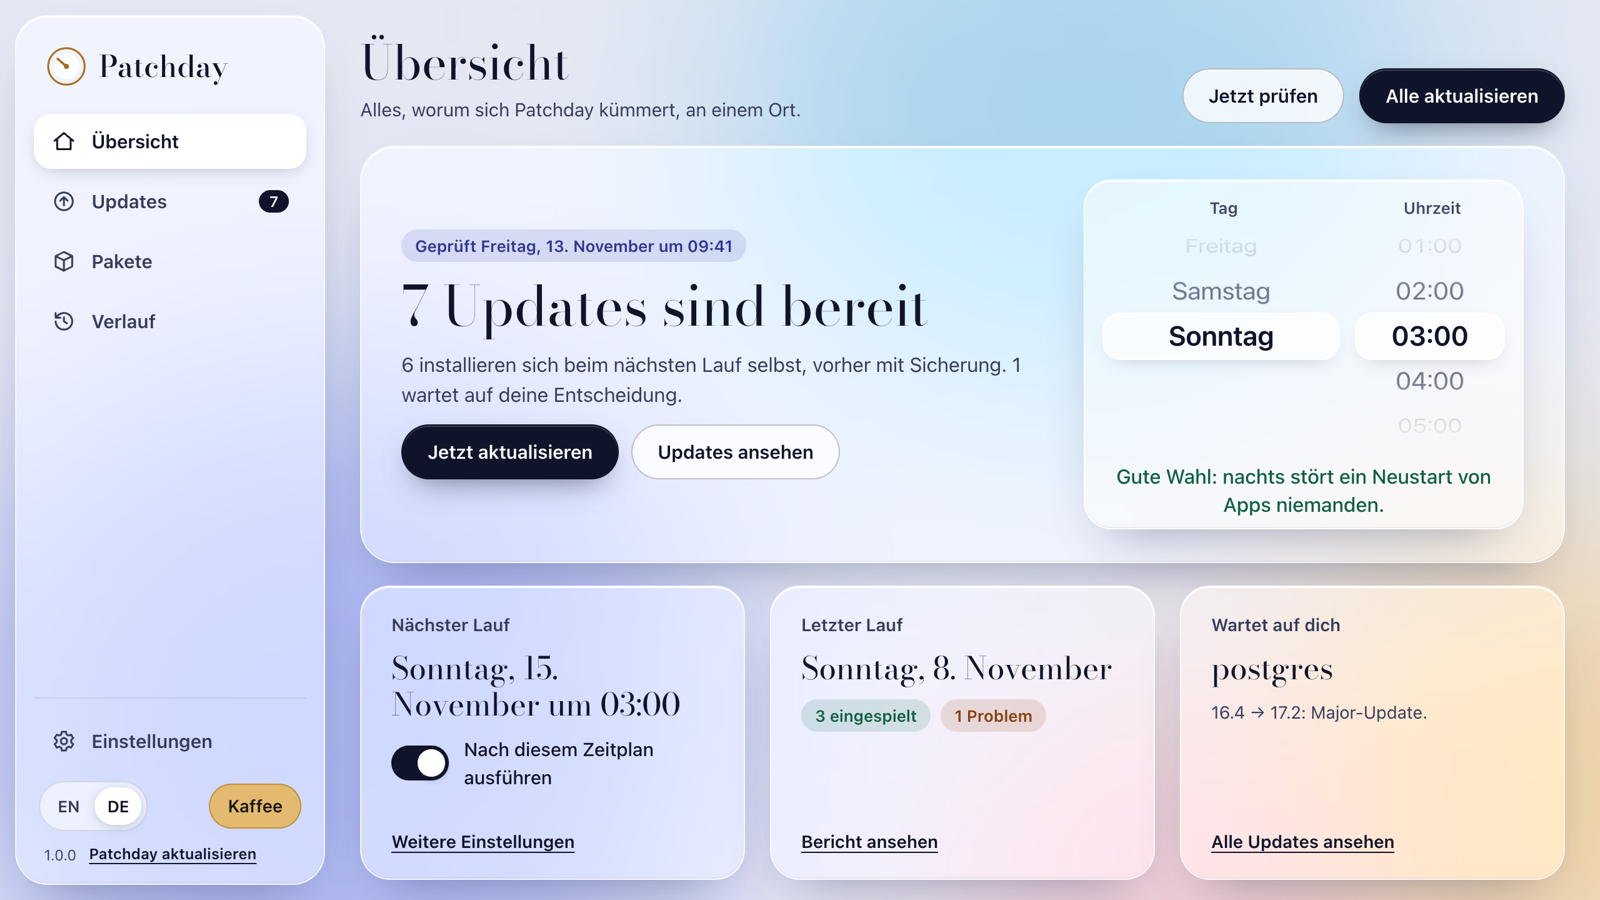
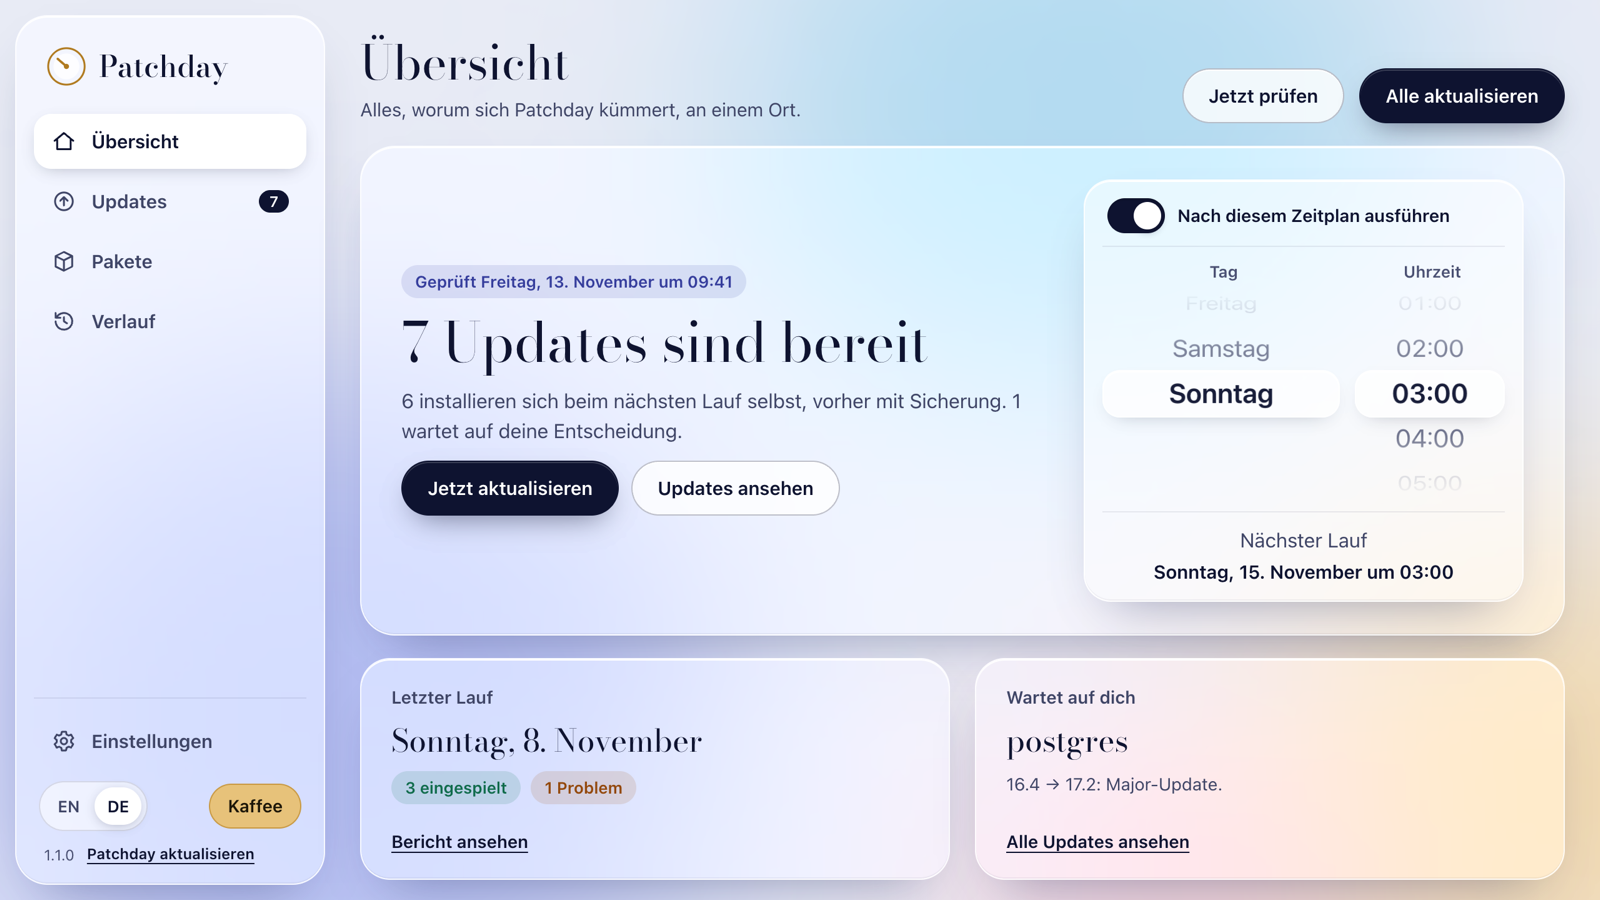
Overview: schedule switch, wheels and next run in one box

diff --git a/src/renderer/i18n.ts b/src/renderer/i18n.ts
@@ -6,8 +6,7 @@ export const STRINGS = {
     scheduleTitle: 'When should updates run?', pick: 'Pick a time: drag the hand or use the slider',
     enabled: 'Run on this schedule', check: 'Check now', update: 'Update now', settings: 'Settings',
     next: 'Next run:', off: 'The schedule is off. Nothing runs by itself.',
-    noteNight: 'Good choice: at night, nobody notices apps restarting.',
-    noteDay: 'During the day, updates can restart running apps and Docker. Night is safer.',
+    noteDay: 'Apps can restart while you use them.',
     applyLabel: 'Install updates on schedule',
     applyHint: 'While this is off, scheduled runs only report what would change.',
     minorLabel: 'Install minor updates automatically', holdsLabel: 'Never update (names, separated by commas)',
@@ -41,7 +40,7 @@ export const STRINGS = {
     autoSelfLabel: 'Update Patchday automatically', autoSelfHint: 'Patchday checks once a day, downloads new versions in the background and installs them when you close it.',
     selfReady: 'Patchday {version} is downloaded. It installs when you close Patchday.', selfRestart: 'Restart now',
     actionFailed: 'Could not finish:', moreActions: 'More actions for {name}', busyNote: 'Wait until the current run or action has finished.',
-    settingsLead: 'Everything that is not on Overview. Changes save by themselves.', moreSettings: 'More settings',
+    settingsLead: 'Everything that is not on Overview. Changes save by themselves.',
     appearance: 'Appearance', appearanceSystem: 'System', appearanceLight: 'Light', appearanceDark: 'Dark', appearanceHint: 'System follows the light or dark setting of your computer.',
     exportLogs: 'Export logs', logsExported: 'Logs saved. They list every run with the reason and the tool\'s output for each failed update.',
     stepsLabel: '{name}: {phase}',
@@ -71,8 +70,7 @@ export const STRINGS = {
     scheduleTitle: 'Wann sollen Updates laufen?', pick: 'Zeitpunkt wählen: Zeiger ziehen oder Regler nutzen',
     enabled: 'Nach diesem Zeitplan ausführen', check: 'Jetzt prüfen', update: 'Jetzt aktualisieren', settings: 'Einstellungen',
     next: 'Nächster Lauf:', off: 'Der Zeitplan ist aus. Nichts läuft von selbst.',
-    noteNight: 'Gute Wahl: nachts stört ein Neustart von Apps niemanden.',
-    noteDay: 'Tagsüber können Updates laufende Apps und Docker neu starten. Nachts ist sicherer.',
+    noteDay: 'Apps können neu starten, während du sie nutzt.',
     applyLabel: 'Updates nach Zeitplan installieren',
     applyHint: 'Solange das aus ist, melden geplante Läufe nur, was sich ändern würde.',
     minorLabel: 'Minor-Updates automatisch installieren', holdsLabel: 'Nie aktualisieren (Namen, durch Kommas getrennt)',
@@ -106,7 +104,7 @@ export const STRINGS = {
     autoSelfLabel: 'Patchday automatisch aktualisieren', autoSelfHint: 'Patchday prüft einmal am Tag, lädt neue Versionen im Hintergrund und installiert sie, wenn du es schließt.',
     selfReady: 'Patchday {version} ist geladen. Die Installation folgt, wenn du Patchday schließt.', selfRestart: 'Jetzt neu starten',
     actionFailed: 'Konnte nicht abschließen:', moreActions: 'Weitere Aktionen für {name}', busyNote: 'Warte, bis der laufende Lauf oder die Aktion fertig ist.',
-    settingsLead: 'Alles, was nicht auf der Übersicht steht. Änderungen speichern sich selbst.', moreSettings: 'Weitere Einstellungen',
+    settingsLead: 'Alles, was nicht auf der Übersicht steht. Änderungen speichern sich selbst.',
     appearance: 'Erscheinungsbild', appearanceSystem: 'System', appearanceLight: 'Hell', appearanceDark: 'Dunkel', appearanceHint: 'System folgt der hellen oder dunklen Einstellung deines Rechners.',
     exportLogs: 'Logs exportieren', logsExported: 'Logs gespeichert. Sie zeigen jeden Lauf mit Grund und Ausgabe des Werkzeugs für jedes fehlgeschlagene Update.',
     stepsLabel: '{name}: {phase}',

diff --git a/src/renderer/app.css b/src/renderer/app.css
@@ -43,20 +43,23 @@ button { font: inherit; color: inherit; }
 .hero h2 { font: 400 44px/1.05 var(--font-display); }
 .hero p { max-width: 560px; font-size: 16px; color: var(--ink-2); }
 /* When: two wheels for day and time, the schedule at a glance and in reach. */
-.when { flex: none; display: grid; grid-template-columns: 190px 120px; gap: 12px; padding: 12px 14px 8px; border-radius: 22px; background: var(--glass); border: 1px solid var(--glass-edge); box-shadow: var(--shadow-glass); }
-.when-col { display: grid; gap: 2px; min-width: 0; }
+.when { flex: none; display: grid; grid-template-columns: 190px 120px; gap: 10px 12px; padding: 14px 14px 12px; border-radius: 22px; background: var(--glass); border: 1px solid var(--glass-edge); box-shadow: var(--shadow-glass); }
+.when-switch { grid-column: 1 / -1; display: flex; align-items: center; gap: 10px; padding: 0 4px 10px; border-bottom: 1px solid var(--hairline); font-size: 14px; font-weight: 600; }
+.when-col { display: grid; gap: 2px; min-width: 0; transition: opacity .2s; }
 .when-head { padding-left: 4px; font-size: 13px; font-weight: 600; color: var(--ink-3); text-align: center; }
-.when .pd-wheel { height: 180px; }
-.when-note { grid-column: 1 / -1; max-width: 322px; font-size: 13px; line-height: 1.4; font-weight: 500; text-align: center; }
-.when-note.night { color: var(--ok); }
-.when-note.day { color: var(--back); }
-.cards { flex: 1; min-height: 0; display: grid; grid-template-columns: repeat(3, minmax(0, 1fr)); gap: 20px; }
+.when .pd-wheel { height: 170px; }
+.when.off .when-col { opacity: .45; }
+.when-next { grid-column: 1 / -1; display: grid; gap: 2px; padding: 10px 4px 0; border-top: 1px solid var(--hairline); font-size: 13px; color: var(--ink-3); text-align: center; }
+.when-next strong { font-size: 15px; font-weight: 600; color: var(--ink); }
+.when.off .when-next strong { font-weight: 500; color: var(--ink-2); }
+.when-note { grid-column: 1 / -1; max-width: 322px; font-size: 13px; line-height: 1.4; font-weight: 500; text-align: center; color: var(--back); }
+.when-note[hidden] { display: none; }
+.cards { flex: 1; min-height: 0; display: grid; grid-template-columns: repeat(2, minmax(0, 1fr)); gap: 20px; }
 .card { display: flex; flex-direction: column; gap: 10px; padding: 20px 24px; border-radius: var(--radius-panel); min-width: 0; }
 .card h3 { font-size: 14px; font-weight: 600; color: var(--ink-2); }
 .card .big { font: 400 25px/1.15 var(--font-display); overflow-wrap: anywhere; }
 .card .pd-link { margin-top: auto; }
 .pills { display: flex; flex-wrap: wrap; gap: 8px; }
-.switch-row { display: flex; align-items: center; gap: 12px; font-weight: 500; }
 
 /* Packages */
 .search { display: flex; align-items: center; gap: 12px; padding: 0 20px; border-radius: 20px; }

diff --git a/src/renderer/index.html b/src/renderer/index.html
@@ -75,20 +75,16 @@
             <button class="pd-btn pd-btn-line" type="button" data-goto="updates" data-i18n="reviewUpdates"></button>
           </div>
         </div>
-        <div class="when" role="group" aria-labelledby="when-title">
+        <div class="when" id="when" role="group" aria-labelledby="when-title">
           <span class="sr-only" id="when-title" data-i18n="whenTitle"></span>
+          <label class="when-switch"><button class="pd-switch" type="button" role="switch" id="enabled-quick" aria-checked="false"><span></span></button><span data-i18n="enabled"></span></label>
           <div class="when-col"><span class="when-head" data-i18n="wheelDay"></span><div id="wheel-day"></div></div>
           <div class="when-col"><span class="when-head" data-i18n="wheelTime"></span><div id="wheel-hour"></div></div>
-          <p class="when-note" id="when-note" aria-live="polite"></p>
+          <p class="when-next" aria-live="polite"><span data-i18n="nextRunTitle"></span><strong id="when-next"></strong></p>
+          <p class="when-note" id="when-note" aria-live="polite" hidden></p>
         </div>
       </section>
       <div class="cards">
-        <section class="card pd-glass">
-          <h3 data-i18n="nextRunTitle"></h3>
-          <p class="big" id="card-next"></p>
-          <label class="switch-row"><button class="pd-switch" type="button" role="switch" id="enabled-quick" aria-checked="false"><span></span></button><span data-i18n="enabled"></span></label>
-          <button class="pd-link" type="button" data-goto="settings" data-i18n="moreSettings"></button>
-        </section>
         <section class="card pd-glass">
           <h3 data-i18n="lastRun"></h3>
           <p class="big" id="card-last"></p>

diff --git a/src/renderer/app.ts b/src/renderer/app.ts
@@ -221,7 +221,6 @@ function renderOverview(): void {
   wheels?.day.set(Math.floor(settings.hourOfWeek / 24), true);
   wheels?.hour.set(settings.hourOfWeek % 24, true);
 
-  $('card-next').textContent = nextRunText();
   const lastRun = reports.find((entry) => entry.mode === 'apply');
   $('card-last').textContent = lastRun ? new Date(lastRun.startedAt).toLocaleDateString(t().locale, { weekday: 'long', day: 'numeric', month: 'long' }) : t().lastNone;
   const pills = $('card-last-pills');
@@ -246,10 +245,14 @@ function setSwitch(id: string, on: boolean): void {
 }
 
 function renderSettings(): void {
+  // The wheel box carries the whole schedule: on or off, day and time, the date it lands on,
+  // and a warning only when the time falls in the day.
   const night = settings.hourOfWeek % 24 < 6;
+  $('when').classList.toggle('off', !settings.scheduleEnabled);
+  $('when-next').textContent = nextRunText();
   const note = $('when-note');
-  note.textContent = night ? t().noteNight : t().noteDay;
-  note.className = `when-note ${night ? 'night' : 'day'}`;
+  note.hidden = night || !settings.scheduleEnabled;
+  note.textContent = t().noteDay;
   all('[data-appearance]').forEach((node) => node.setAttribute('aria-pressed', String(node.dataset.appearance === settings.appearance)));
   setSwitch('enabled', settings.scheduleEnabled);
   setSwitch('enabled-quick', settings.scheduleEnabled);

diff --git a/README.md b/README.md
@@ -154,7 +154,7 @@ A sidebar leads to **Overview**, **Updates**, **Packages** and **History**, with
 
 | Page | What you can do |
 | --- | --- |
-| Overview | See how many updates are ready, pick the day and time of the weekly run, and see the next and the last run and what waits for your decision. |
+| Overview | See how many updates are ready. Turn the schedule on or off, pick its day and time and see the date of the next run, all in one box. Below: the last run and what waits for your decision. |
 | Updates | The latest check or run, grouped into what waits for you, problems, what installs by itself and what was applied. |
 | Packages | One search for both: installed packages first, packages you can add below. Update, skip a version or uninstall right in the row. |
 | Settings | Choose what happens at a run, keep the **Never update** list, pick light, dark or system appearance, and connect Portainer. |
@@ -187,7 +187,7 @@ While Portainer is running and no token is saved, stacks that might belong to it
 | Install minor updates automatically | On | While off, minor updates of containers are suggestions. |
 | Update Patchday automatically | On | Checks once a day, downloads in the background and installs when you close Patchday. |
 
-Day and time are on **Overview**. Everything else is on the **Settings** page, along with the appearance, the Portainer connection and, on Windows, the admin access.
+The schedule switch, day and time are on **Overview**. Everything else is on the **Settings** page, along with the appearance, the Portainer connection and, on Windows, the admin access.
 | Never update | Empty | Names of images or packages to leave alone, separated by commas. |
 | Portainer address and token | Empty | Connects Portainer stacks. |
 

diff --git a/docs/testing.md b/docs/testing.md
@@ -35,13 +35,14 @@ Target machines:
 
 ## 4. Schedule
 
-- [ ] On **Overview**, turn the **Day** and **Time** wheels to the next full hour that is at least 10 minutes away, with the mouse wheel, by dragging and with the arrow keys. **Next run** shows that day and time.
-- [ ] Turn on **Run on this schedule**. Leave **Install updates on schedule** off.
+- [ ] On **Overview**, turn the **Day** and **Time** wheels to the next full hour that is at least 10 minutes away, with the mouse wheel, by dragging and with the arrow keys. **Next run** below the wheels shows that date and time.
+- [ ] Turn on **Run on this schedule** above the wheels. Leave **Install updates on schedule** off.
 - [ ] macOS: `launchctl print gui/$(id -u)/io.github.kvn-be.patchday` shows the job with the chosen weekday and hour.
 - [ ] Windows: `schtasks /Query /TN Patchday /V /FO LIST` shows a weekly task on the chosen day and time.
 - [ ] Keep the computer awake and logged in. At the chosen time, a run starts without opening a window and shows a notification.
 - [ ] The new report is a preview: items are **Planned**, nothing was installed.
-- [ ] Turn **Run on this schedule** off. The launchd job or the scheduled task is gone.
+- [ ] Turn **Run on this schedule** off. The wheels fade, **Next run** says the schedule is off, and the launchd job or the scheduled task is gone.
+- [ ] Pick an hour from 06:00 on. A short warning shows below the date; from 00:00 to 05:00 it is gone.
 
 ## 5. Update run with a rollback
 

diff --git a/CHANGELOG.md b/CHANGELOG.md
@@ -2,6 +2,12 @@
 
 All notable changes to Patchday are listed here. Versions follow [semantic versioning](https://semver.org). Every release so far is a preview.
 
+## Unreleased
+
+### Changed
+
+- Overview puts the whole schedule in one box: **Run on this schedule** on top, the day and time wheels, and the date of the next run below. The separate **Next run** card is gone, so the date shows only once. Outside 00:00 to 06:00, a one-line warning says apps can restart while you use them.
+
 ## 1.1.0 - 2026-11-14
 
 ### Added
